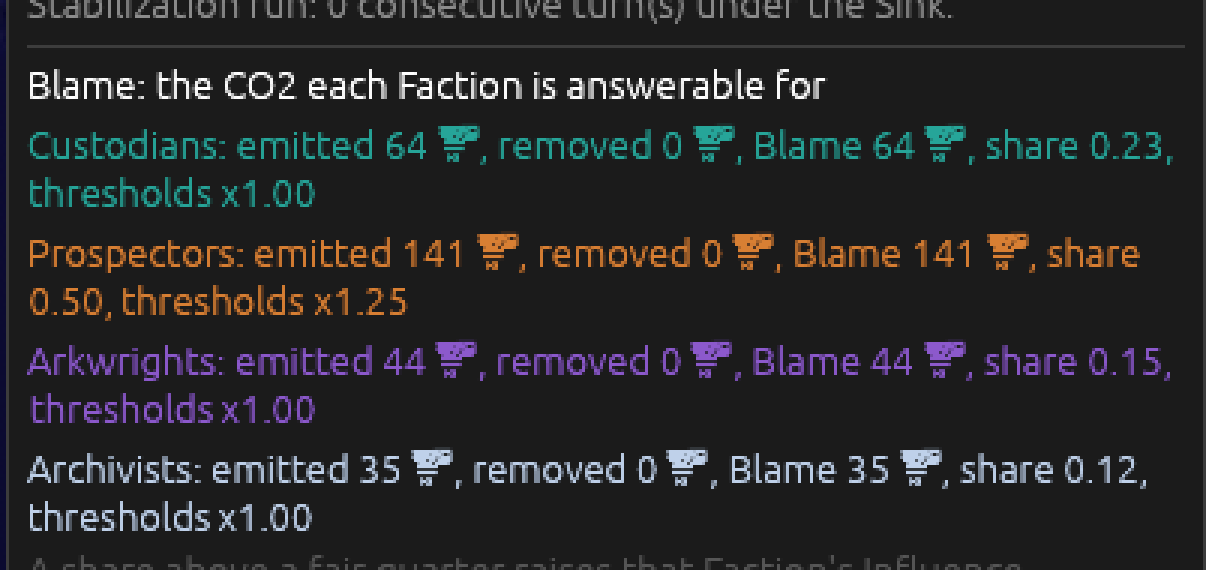
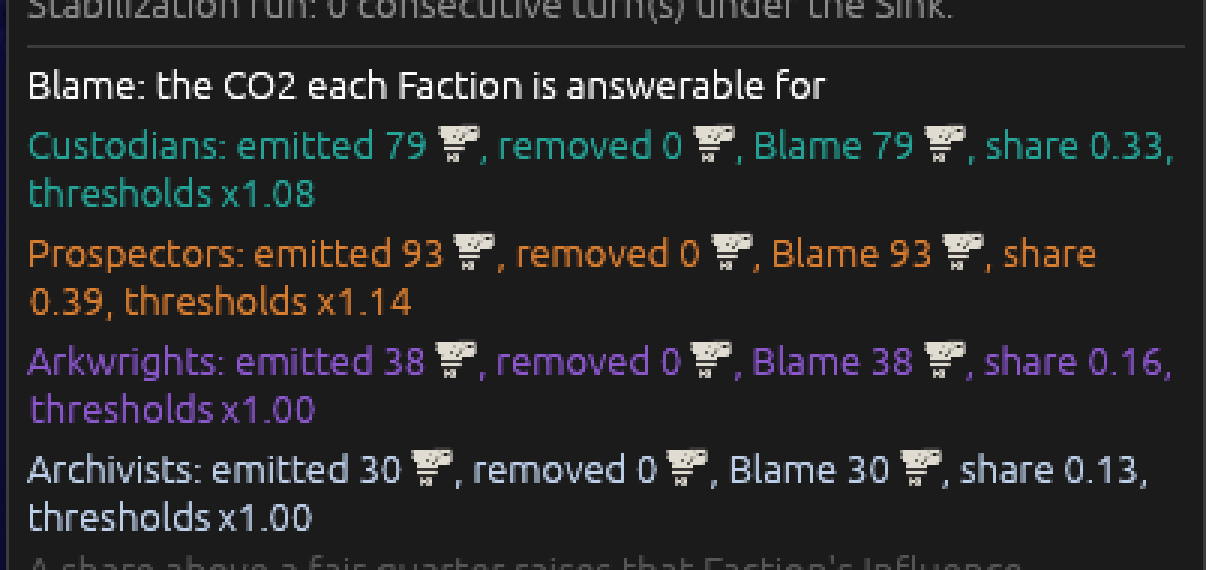
A glyph is drawn in one fill, never the colour of the line it sits in
Ticket #112 (version 0.07.1). The Blame block's first build let each glyph
take its line's tint, so the chimney came out teal on the Custodians' line and
orange on the Prospectors'. That makes an icon's colour mean "whose", which is
the collision this version's colour question exists to end. The designer:
"I wanted the glyps a single fill color."

Every glyph now draws in GLYPH_FILL, named once, whatever the text around it
is; the Faction colour stays on the words and the figures. When the palette
lands it replaces that one constant with one colour per figure, and still
never borrows from the line.

Claude-Session: https://claude.ai/code/session_01D1Kcc9b8TFBJeLVv6Y33YJ

diff --git a/src/ui.rs b/src/ui.rs
@@ -531,7 +531,7 @@ fn credits_screen(root: &mut Ui, session: &mut Session, icons: &Icons) {
                 ui.horizontal(|ui| {
                     ui.add_space(ui.available_width() / 2.0 - 190.0);
                     ui.spacing_mut().item_spacing.x = 8.0;
-                    if let Some(image) = icons.image(&c.resource.to_lowercase(), 22.0, Color32::from_rgb(225, 220, 210)) {
+                    if let Some(image) = icons.image(&c.resource.to_lowercase(), 22.0, GLYPH_FILL) {
                         ui.add(image);
                     }
                     ui.label(RichText::new(format!("{}: \"{}\" by {}", c.resource, c.icon, c.author)).size(15.0));
@@ -909,7 +909,7 @@ fn game_screen(
 fn bar_resource(ui: &mut Ui, icons: &Icons, key: &str, word: &str, value: String, hover: String) {
     ui.horizontal(|ui| {
         ui.spacing_mut().item_spacing.x = 4.0;
-        match icons.image(key, 16.0, Color32::from_rgb(225, 220, 210)) {
+        match icons.image(key, 16.0, GLYPH_FILL) {
             Some(image) => {
                 ui.add(image).on_hover_text(format!("{word}. {hover}"));
                 ui.label(RichText::new(value).strong()).on_hover_text(format!("{word}. {hover}"));
@@ -976,7 +976,7 @@ fn top_bar(root: &mut Ui, session: &Session, game: &Game, view: &mut ViewState, 
                 ui.separator();
             }
             // Ticket #109: Research joins the others, its word replaced by its glyph on the bar.
-            match icons.image("research", 16.0, Color32::from_rgb(225, 220, 210)) {
+            match icons.image("research", 16.0, GLYPH_FILL) {
                 Some(image) => {
                     ui.horizontal(|ui| {
                         ui.spacing_mut().item_spacing.x = 4.0;
@@ -1789,7 +1789,7 @@ fn change_row(ui: &mut Ui, game: &Game, pending: &[Order], b: BuildingRef, mothb
 /// unchanged, so nothing is ever lost -- only unillustrated.
 fn icon_word(ui: &mut Ui, key: &str, text: impl Into<String>) {
     let text = text.into();
-    match Icons::from_ctx(ui.ctx(), key, 15.0, Color32::from_rgb(225, 220, 210)) {
+    match Icons::from_ctx(ui.ctx(), key, 15.0, GLYPH_FILL) {
         Some(image) => {
             ui.horizontal(|ui| {
                 ui.spacing_mut().item_spacing.x = 4.0;
@@ -1809,8 +1809,15 @@ fn icon_word(ui: &mut Ui, key: &str, text: impl Into<String>) {
 /// interface, trade them for pictures. Where an icon is missing the word comes straight back.
 fn hover_with_icons(ui: &mut Ui, text: &str) {
     ui.set_max_width(360.0);
-    text_with_icons(ui, text, 14.0, Color32::from_rgb(225, 220, 210));
+    text_with_icons(ui, text, 14.0, GLYPH_FILL);
 }
+
+/// Ticket #112 (version 0.07.1): every glyph is drawn in ONE fill, whatever the colour of the text
+/// around it. The first build of the Blame block let the glyph take its line's tint, so the chimney
+/// came out teal on the Custodians' line and orange on the Prospectors', which made an icon's colour
+/// mean "whose" -- the exact collision this version is trying to end. An icon's colour belongs to
+/// the icon.
+const GLYPH_FILL: Color32 = Color32::from_rgb(225, 220, 210);
 
 /// The eight figures that have a glyph, in both the spellings the game's prose uses. The five
 /// resources and Influence are capitalised as defined terms; population and emissions are written
@@ -1866,7 +1873,7 @@ fn draw_with_icons(ui: &mut Ui, text: &str, size: f32, tint: Color32, extra: &[(
                 .iter()
                 .chain(extra.iter())
                 .find(|(w, _)| allowed && *w == bare)
-                .and_then(|(_, key)| Icons::from_ctx(ui.ctx(), key, size, tint))
+                .and_then(|(_, key)| Icons::from_ctx(ui.ctx(), key, size, GLYPH_FILL))
             {
                 Some(image) => {
                     if tail.is_empty() {

diff --git a/docs/dev-diary/2026-09-12-version-0.07.1/README.md b/docs/dev-diary/2026-09-12-version-0.07.1/README.md
@@ -172,10 +172,14 @@ this block the same three letters are the CO2 Stock and a Scrubber's pull on the
 chimney against either of those would be a lie — so the renderer takes that word as a local extra
 rather than learning it globally.
 
-Note what the picture shows about **colour**, which is the question still open on this ticket: the
-chimneys in the Blame block are already **Faction-coloured**, because the line takes the seat's
-colour and the glyph takes the line's tint. Colour on an icon already means *whose* in at least one
-place.
+**An icon's colour belongs to the icon.** The first build of this block let the glyph take its
+line's tint, so the chimney came out teal on the Custodians' line and orange on the Prospectors' —
+which quietly made an icon's colour mean *whose*, the exact collision this version is trying to end.
+The designer's correction: *"I wanted the glyphs a single fill color."* Every glyph in the game is
+now drawn in one fill, named once as `GLYPH_FILL`, whatever colour the text around it is; the
+Faction colour stays on the words and the figures, where it means what it has always meant. When the
+palette lands it replaces that one constant with one colour per figure, and still never borrows from
+the line.
 
 ![Net Emissions on the top bar](net-emissions-on-the-bar.png)
 
